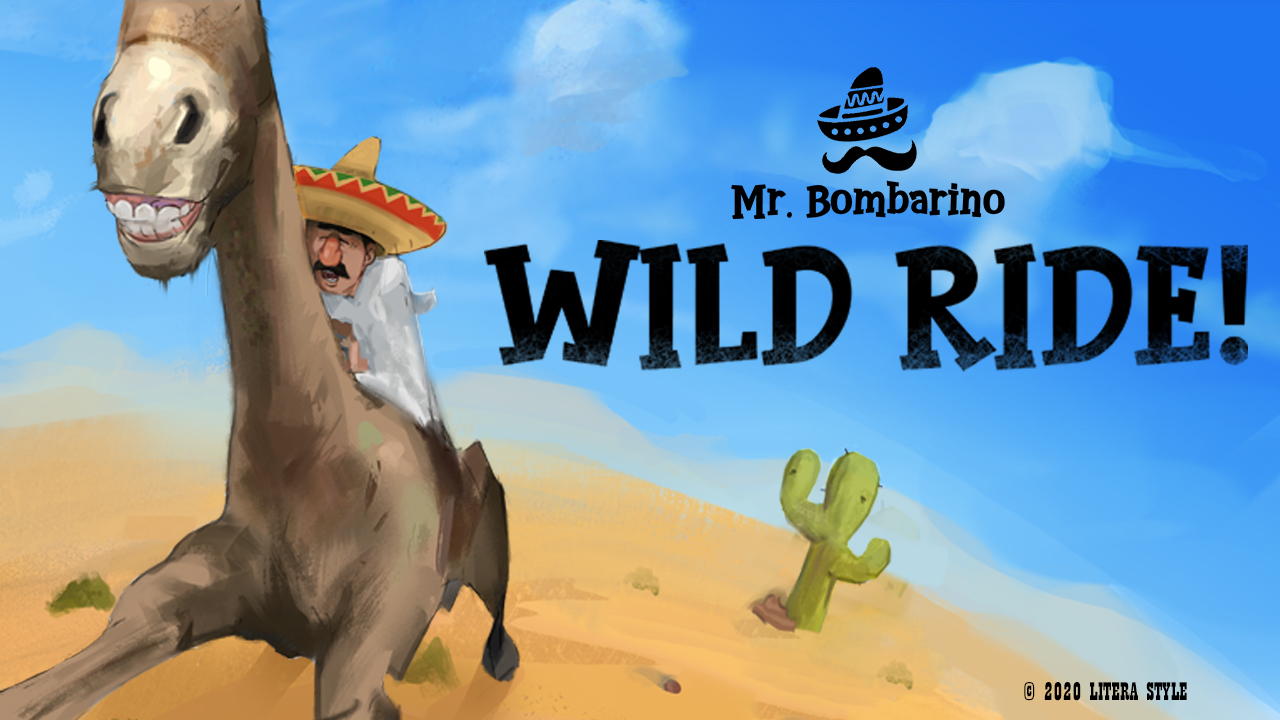
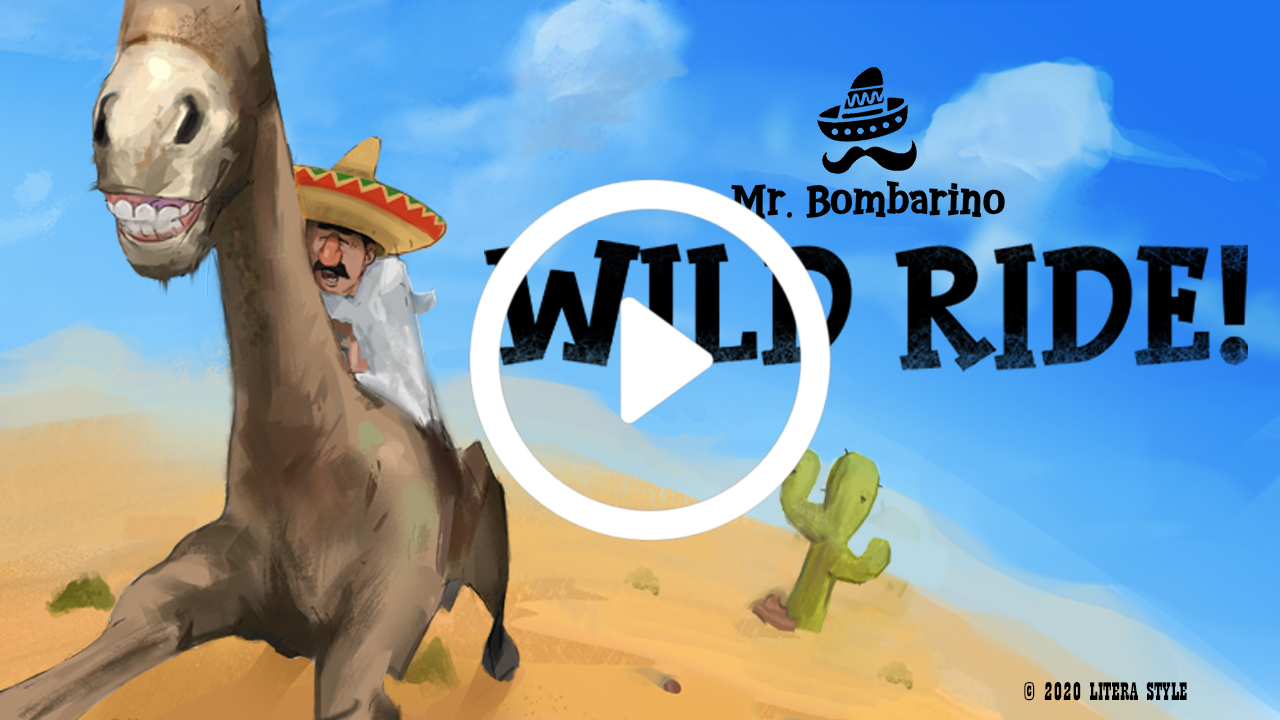
IMGS

Changed region(s): [[0.3438, 0.2444, 0.6562, 0.7639], [0.4688, 0.3972, 0.5625, 0.5806]]

diff --git a/index.html b/index.html
@@ -1,9 +1,4 @@
 <!DOCTYPE HTML>
-<!--
-	Massively by HTML5 UP
-	html5up.net | @ajlkn
-	Free for personal and commercial use under the CCA 3.0 license (html5up.net/license)
--->
 <html>
 	<head>
 		<title>MR. BOMBARINO</title>
@@ -53,7 +48,9 @@
 									<p> <b>CLICK ON IMAGE TO PLAY THE EPISODE! </b></p>
 								</header>
 								<a href="https://www.youtube.com/watch?v=wU7FRgsZX9g&t=3s" class="image main"><img src="images/thmb.jpg" alt="" /></a>
-								<ul class="actions special">
+								<p style="text-align: center">EVERY SUBSCRIBE IS BIG HELP TO US! </b></p>
+								<a href="https://www.youtube.com/channel/UCpC2SOm-hK8AlRreP6cy_TA?sub_confirmation=1" class="image main"><img src="images/SB_TAB.png" alt="" /></a>
+								<ul class="actions special"></ul>
 								</ul>
 							</article>
 
